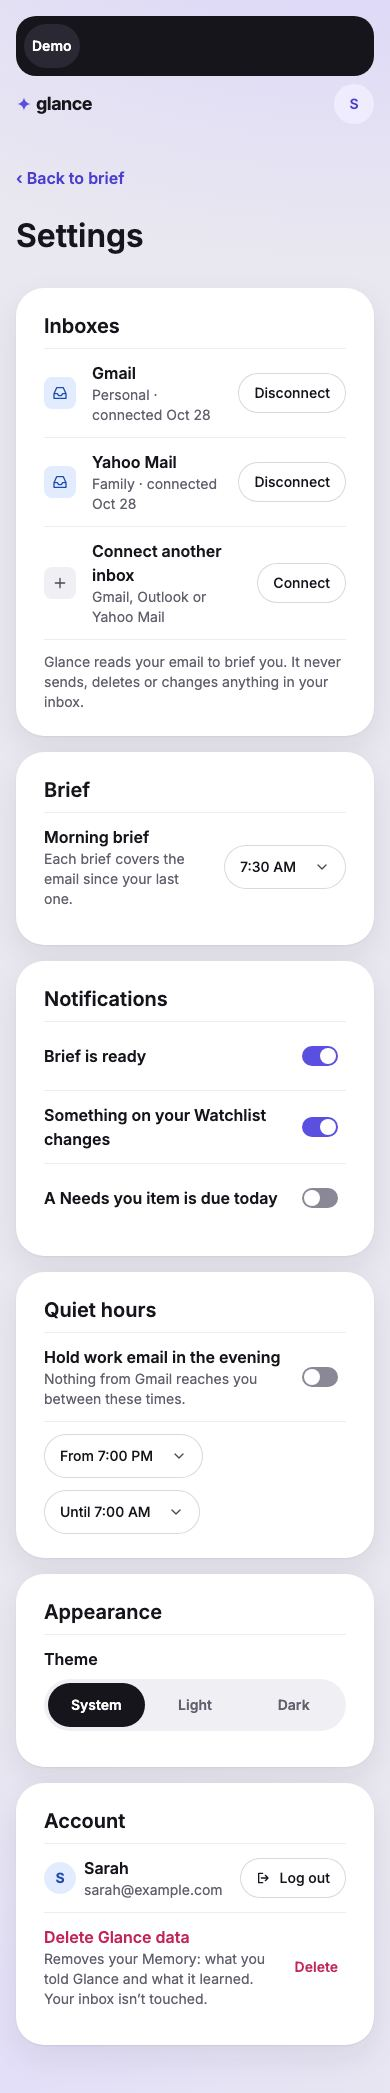
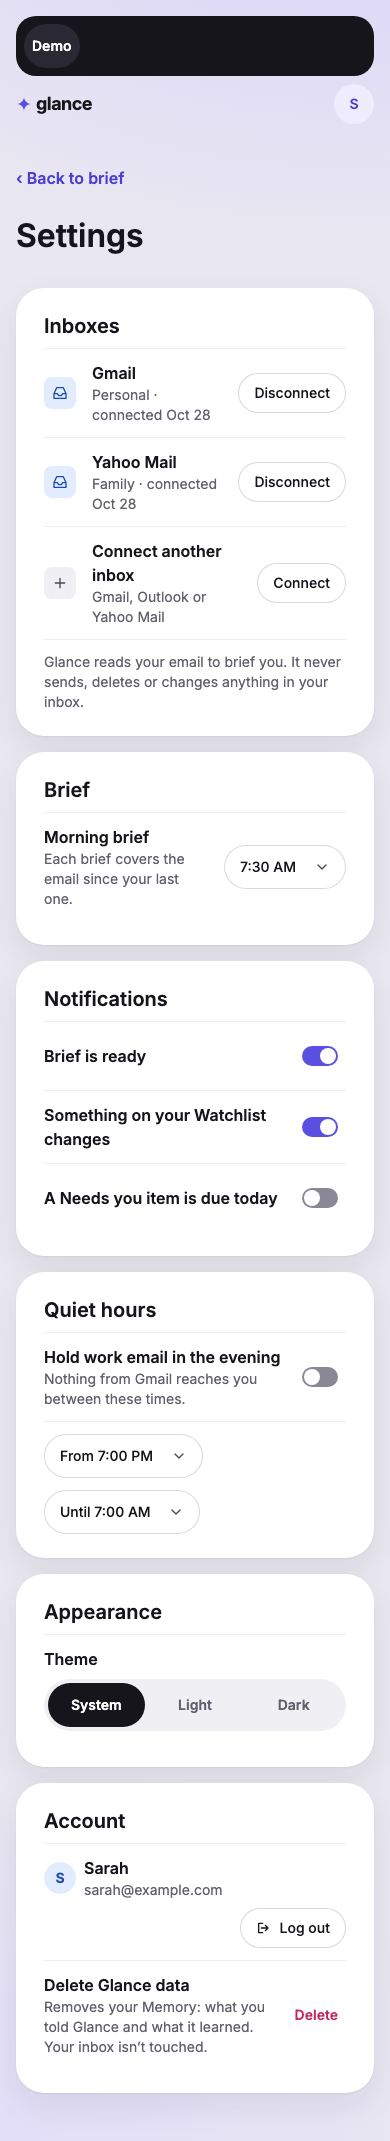
fix(ds): refine Settings account and quiet hours

Changed region(s): [[0.0308, 0.0, 0.9538, 0.9627], [0.7692, 0.9317, 0.8615, 0.9627], [0.8923, 0.0311, 0.9231, 0.0621]]

diff --git a/src/design-system/components/SettingsPanel/SettingsPanel.tsx b/src/design-system/components/SettingsPanel/SettingsPanel.tsx
@@ -70,9 +70,12 @@ export function SettingsPanel({
   const [active, setActive] = useState<Section>('inboxes');
   const [confirmation, setConfirmation] = useState<string | null>(null);
   const headingId = (id: Section) => prefix + '-' + id;
-  const work =
-    persona.accounts.find((account) => account.label === 'Work') ??
-    persona.accounts[0];
+  const workAccount = persona.accounts.find(
+    (account) => account.label === 'Work',
+  );
+  const quietHoursInbox = workAccount?.label
+    ? 'your ' + workAccount.label + ' inbox'
+    : persona.accounts[0].app;
   const { name, initial, email } = persona;
 
   useLayoutEffect(() => {
@@ -199,9 +202,14 @@ export function SettingsPanel({
                         <div className={styles.copy}>
                           <strong>{account.app}</strong>
                           <p className={styles.meta}>
-                            {persona.accounts.length === 1
-                              ? email
-                              : (account.label ?? account.app)}{' '}
+                            {account.label ??
+                              (persona.accounts.length === 1 ? (
+                                <span className={styles.inboxAddress}>
+                                  {email}
+                                </span>
+                              ) : (
+                                account.app
+                              ))}{' '}
                             · connected Oct 28
                           </p>
                         </div>
@@ -290,7 +298,8 @@ export function SettingsPanel({
                 <div className={styles.copy}>
                   <strong>Hold work email in the evening</strong>
                   <p className={styles.meta}>
-                    Nothing from {work.app} reaches you between these times.
+                    Nothing from {quietHoursInbox} reaches you between these
+                    times.
                   </p>
                 </div>
                 <Switch
@@ -339,7 +348,7 @@ export function SettingsPanel({
             'account',
             'Account',
             <>
-              <div className={styles.row}>
+              <div className={[styles.row, styles.accountIdentity].join(' ')}>
                 <Person
                   variant="identity"
                   initial={initial}
@@ -357,7 +366,7 @@ export function SettingsPanel({
               </div>
               <div className={styles.row}>
                 <div className={styles.copy}>
-                  <strong className={styles.danger}>Delete Glance data</strong>
+                  <strong>Delete Glance data</strong>
                   <p className={styles.meta}>
                     Removes your Memory: what you told Glance and what it
                     learned. Your inbox isn’t touched.

diff --git a/src/design-system/components/SettingsPanel/SettingsPanel.module.css b/src/design-system/components/SettingsPanel/SettingsPanel.module.css
@@ -104,6 +104,19 @@
   padding: 0;
   margin: 0;
 }
+.inboxAddress {
+  white-space: nowrap;
+}
+.row:has(.inboxAddress) {
+  flex-wrap: wrap;
+}
+.row:has(.inboxAddress) > .identity {
+  flex: 1 1 min-content;
+  min-inline-size: min-content;
+}
+.row:has(.inboxAddress) > button {
+  margin-inline-start: auto;
+}
 .meta,
 .privacy,
 .confirmation p {
@@ -122,9 +135,6 @@
   flex-wrap: wrap;
   gap: var(--space-12);
 }
-.danger {
-  color: var(--color-danger-text);
-}
 .row .delete {
   --control-ink: var(--color-danger-text);
   --hover-ink: var(--color-danger-text);
@@ -141,4 +151,12 @@
 }
 .page:not(.desktop) .appearance {
   flex-wrap: wrap;
+}
+
+.page:not(.desktop) .accountIdentity {
+  flex-direction: column;
+  align-items: stretch;
+}
+.page:not(.desktop) .accountIdentity > button {
+  align-self: flex-end;
 }

diff --git a/src/design-system/components/Person/Person.module.css b/src/design-system/components/Person/Person.module.css
@@ -19,3 +19,7 @@
   line-height: var(--line-height-16);
   font-weight: var(--font-weight-semibold);
 }
+
+.identity .details > span {
+  white-space: nowrap;
+}

diff --git a/docs/design-system.md b/docs/design-system.md
@@ -785,10 +785,10 @@ The theme choice is stored as today (`themePreference`), applies at once, and is
 
 | Section | Content |
 | --- | --- |
-| Inboxes | One row per `accounts` entry: the app name (16/24 semibold), “{email} · connected Oct 28” (14/20, muted), an outline “Disconnect”. Then “Connect another inbox” with “Gmail, Outlook or Yahoo Mail” and an outline “Connect”. Then the note “Glance reads your email to brief you. It never sends, deletes or changes anything in your inbox.” |
+| Inboxes | One row per `accounts` entry: the app name (16/24 semibold), the account label (Work, Personal, or Family) followed by “· connected Oct 28” (14/20, muted), and an outline “Disconnect”. A persona with one unlabeled account shows the persona email in place of the label. Keep that address on one line. Then “Connect another inbox” with “Gmail, Outlook or Yahoo Mail” and an outline “Connect”. Then the note “Glance reads your email to brief you. It never sends, deletes or changes anything in your inbox.” |
 | Brief | “Morning brief” with “Each brief covers the email since your last one.” and a time select showing “7:30 AM”. |
 | Notifications | Three Switch rows: “Brief is ready” (on), “Something on your Watchlist changes” (on), “A Needs you item is due today” (off). |
-| Quiet hours | A Switch row “Hold work email in the evening” with “Nothing from {work app} reaches you between these times.”, then From “7:00 PM” and Until “7:00 AM” selects. On for Daniel, off for the others. |
+| Quiet hours | A Switch row “Hold work email in the evening” with “Nothing from your {label} inbox reaches you between these times.” when the work account has a label. Otherwise use “Nothing from {app} reaches you between these times.” Follow with From “7:00 PM” and Until “7:00 AM” selects. On for Daniel, off for the others. |
 | Appearance | “Theme” with the regular SegmentedControl: System, Light, Dark. |
 | Account | Avatar, name, email and an outline “Log out”. Below a hairline: “Delete Glance data”, “Removes your Memory: what you told Glance and what it learned. Your inbox isn’t touched.” and a text button “Delete” in `--color-danger-text`. |
 

diff --git a/docs/reviews/31-settings-signed-out/README.md b/docs/reviews/31-settings-signed-out/README.md
@@ -25,8 +25,14 @@ Design references include the [light Settings page](../../screens/v2/settings.pn
 4. Try Disconnect, Connect, and Delete. Each surfaces the demo confirmation. OK returns focus to the trigger.
 5. Log out from the account menu or Settings. Continue with Microsoft and Continue with Google both return to the brief. Check that the demo controls are visible on Settings and the signed-out screen.
 
+## Review follow-up
+
+- The **Delete Glance data** title uses the standard row title color. The **Delete** action uses the danger text token.
+- On phones, **Log out** sits below the identity and aligns to the right. The email stays on one line in Account and Inboxes.
+- Daniel's Quiet hours description names the Work inbox. Maya and Sarah use the app name.
+
+The table includes all 12 refreshed Settings captures. Compare Daniel's phone before the review changes. [Light](https://github.com/shuhaoshang/glance-mail/blob/867a4a85b2365fb8d8fe67d2844dd503a73c4d5f/docs/reviews/31-settings-signed-out/daniel-phone-light.jpg) · [Dark](https://github.com/shuhaoshang/glance-mail/blob/867a4a85b2365fb8d8fe67d2844dd503a73c4d5f/docs/reviews/31-settings-signed-out/daniel-phone-dark.jpg)
+
 ## Open questions
 
-- The spec supplies default times. The proposal is to use 7:00 / 7:30 / 8:00 AM for the brief, 6:00 / 7:00 / 8:00 PM for From, and 6:00 / 7:00 / 8:00 AM for Until. The demo selects currently use these options.
-- The multi-inbox mock data supplies Work, Personal, and Family labels and a single persona email. The current rows show the supplied inbox labels. Add address strings to the mock account data if the rows should show separate addresses.
-- The references show a filled current section link, a tinted Connect button, and a primary Microsoft button. The written spec defines a text treatment for the current link, outline Connect, a text Delete action, and two outline sign-in buttons. The implementation follows those written styles.
+None. The review confirmed the time options, inbox labels, and precedence of the written styles. [Review decisions](https://github.com/shuhaoshang/glance-mail/pull/76#issuecomment-6906978126)
